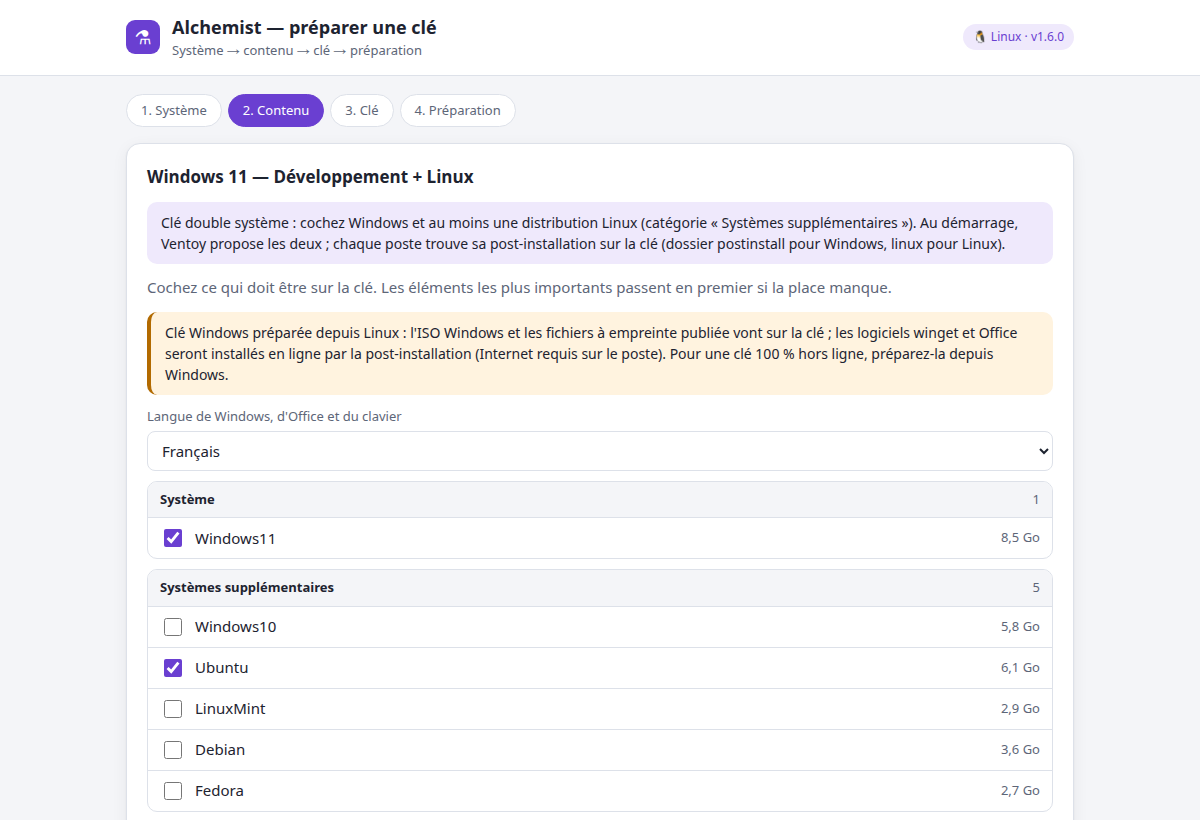
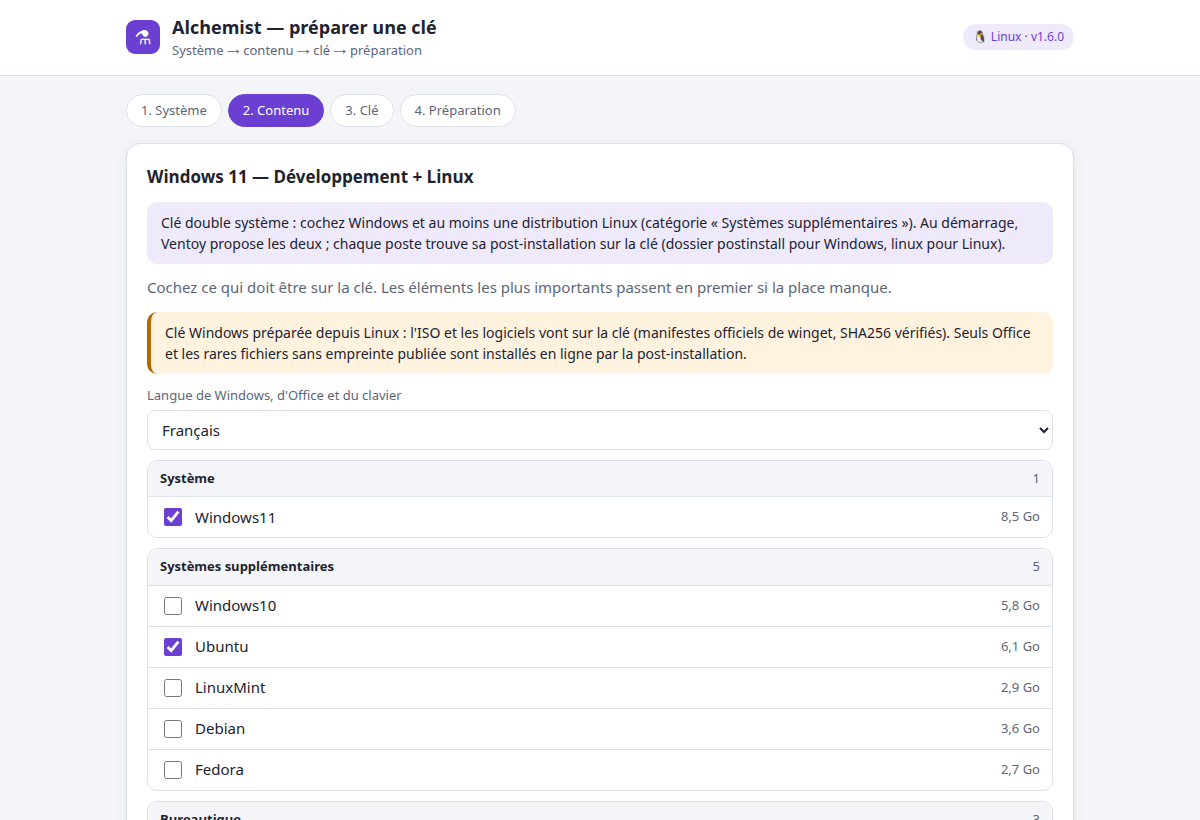
docs: captures à jour et vraie clé Windows 11 au démarrage
- Étape « Contenu » (clair et sombre) : message actuel (logiciels sur la clé via
  les manifestes winget, seul Microsoft 365 en ligne).
- README : démarrage de la vraie clé USB préparée depuis Linux (Windows 11
  build 26300 au menu de Ventoy).
- creer-cle.sh et feuille de route alignés sur le comportement actuel.

Changed region(s): [[0.1233, 0.3963, 0.8942, 1.0], [0.8325, 0.7317, 0.8633, 0.9756], [0.8325, 0.6098, 0.8633, 0.6707]]

diff --git a/ROADMAP.md b/ROADMAP.md
@@ -41,9 +41,9 @@ Versions : [SemVer](https://semver.org/lang/fr/). Avancement réel : [CHANGELOG]
       extensions VS Code, liste des logiciels Windows → équivalents Linux proposés automatiquement.
 - [x] Interface graphique unique multiplateforme (interface web locale) pour créer la clé et installer le
       poste ; WinForms et zenity conservés en repli ; la ligne de commande reste identique.
-- [x] Préparer les clés Windows depuis Linux (ISO officielle via Fido ; logiciels winget et Office installés
-      en ligne sur le poste) et les clés double système.
-- [ ] Clés Windows 100 % hors ligne depuis Linux (sources directes des éditeurs, sans winget).
+- [x] Préparer les clés Windows depuis Linux (ISO officielle via Fido ; logiciels sur la clé via les manifestes
+      publics de winget, SHA256 vérifiés) et les clés double système.
+- [ ] Microsoft 365 hors ligne depuis Linux (téléchargement du CDN Office sans l'Office Deployment Tool).
 - [ ] « Compléter la clé » et menu des pilotes dans l'assistant universel (aujourd'hui : fenêtre classique).
 - [ ] Autres langues d'interface (ES, DE, PT, AR…) et traduction des journaux.
 

diff --git a/README.md b/README.md
@@ -239,6 +239,12 @@ La clé créée par `test-ventoy-reel.sh` démarre réellement, en BIOS comme en
 | --- | --- |
 | ![Démarrage BIOS](docs/demarrage-cle-bios.png) | ![Démarrage UEFI](docs/demarrage-cle-uefi.png) |
 
+Et sur une **vraie clé USB** (Kingston 28,8 Go) préparée depuis Linux pour un poste Windows 11 Développement :
+Ventoy installé par Alchemist, Windows 11 (build 26300) et 35 logiciels vérifiés sur la clé, démarrage contrôlé
+en UEFI :
+
+![Vraie clé : Windows 11 au menu de Ventoy](docs/demarrage-cle-reelle-windows11.png)
+
 ## Versions et méthode de travail
 
 - **Versions** : [SemVer](https://semver.org/lang/fr/), source unique [`VERSION`](VERSION) ;
